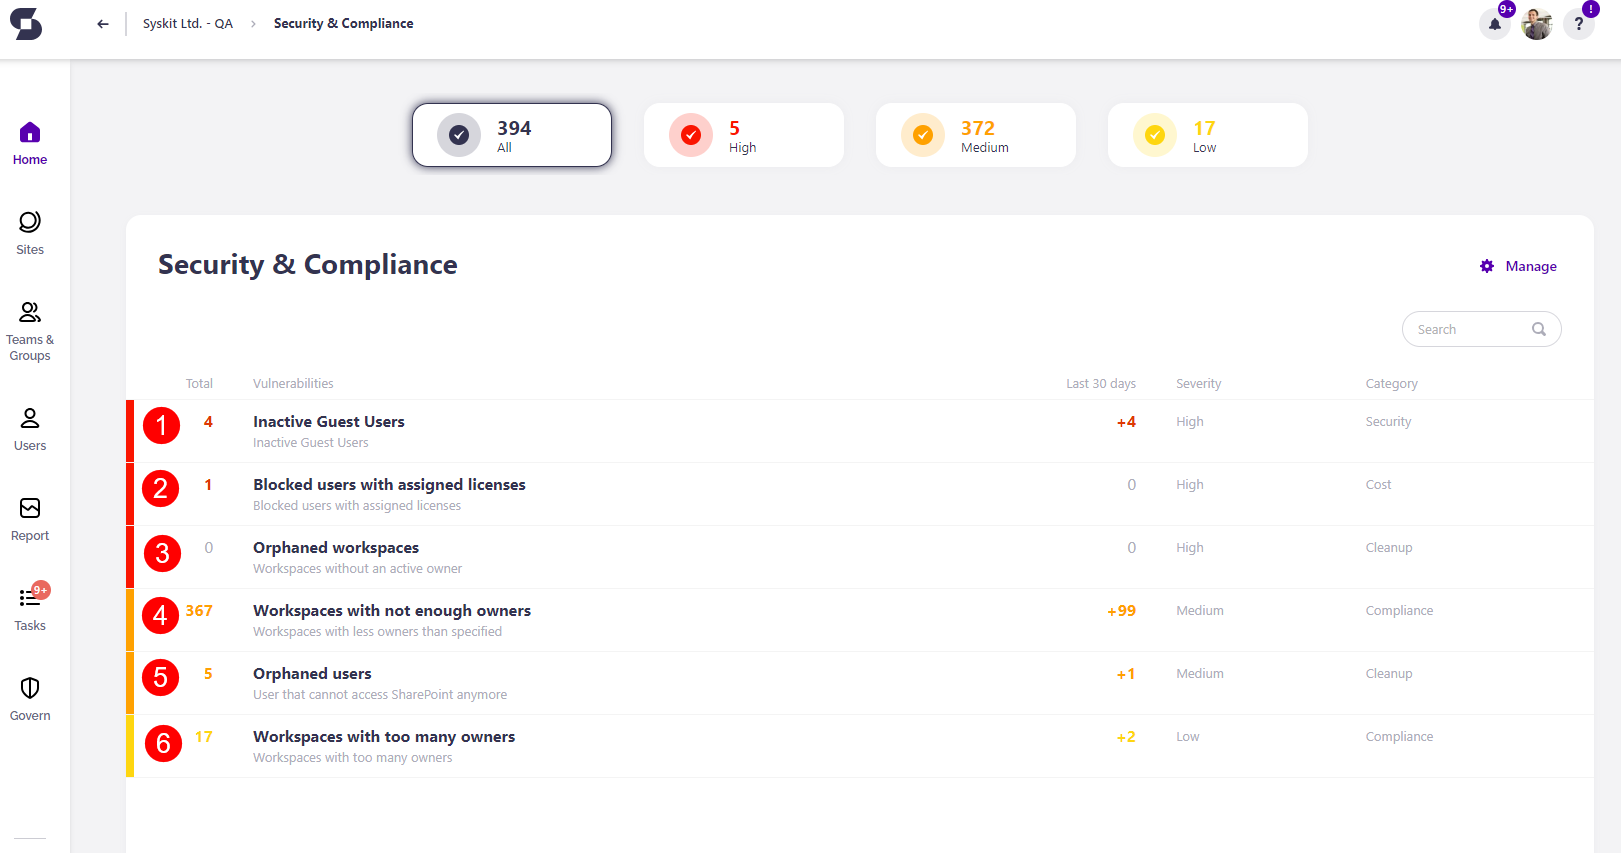
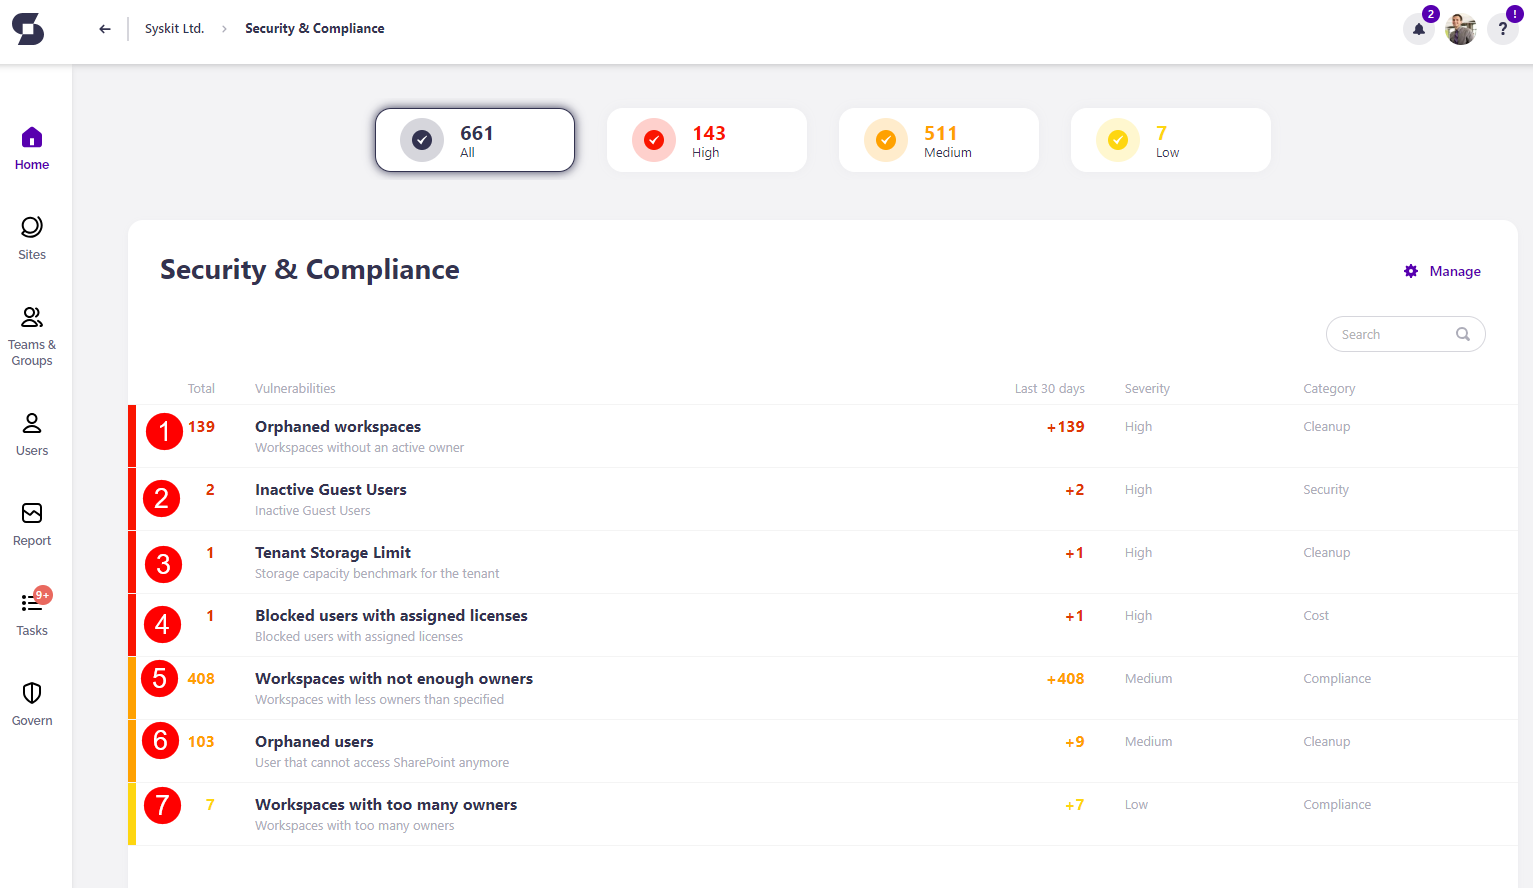
tenant storage articles

diff --git a/governance-and-automation/security-compliance-checks/security-compliance-checks.md b/governance-and-automation/security-compliance-checks/security-compliance-checks.md
@@ -38,17 +38,20 @@ You are also able to [set up Policy Automation](../../governance-and-automation/
 After clicking View All, the Security and Compliance checks dashboard will open, showing the following: 
 
 
-* **Inactive Guest Users (1)** - shows the number of guest users that have been inactive for a certain amount of time and helps you optimize your environment and keep it safe.
+* **Orphaned workspaces (1)** - shows the number of workspaces without an active owner. It helps you manage your Microsoft 365 workspace's health and helps **ensure there are no abandoned resources** and **workspaces without owners** in your tenant. 
 
-* **Blocked users with assigned licenses (2)** - shows the number of users with one or more active licenses assigned that have been blocked, which helps you **detect and remove licenses** that are not being utilized.
+* **Inactive Guest Users (2)** - shows the number of guest users that have been inactive for a certain amount of time and helps you optimize your environment and keep it safe.
 
-* **Orphaned workspaces (3)** - shows the number of workspaces without an active owner. It helps you manage your Microsoft 365 workspace's health and helps **ensure there are no abandoned resources** and **workspaces without owners** in your tenant. 
+* **Tenant Storage Limit (3)** - shows whether you reached the tenant storage limit based on the percentage set for the policy.
 
-* **Workspaces with not enough owners (4)** – shows the number of workspaces that don't have enough owners. You will be able to investigate further and assign additional owners if needed. Keep an eye on workspaces with only 1 owner because **if that one owner leaves, a workspace is left without an owner**. 
+* **Blocked users with assigned licenses (4)** - shows the number of users with one or more active licenses assigned that have been blocked, which helps you **detect and remove licenses** that are not being utilized.
 
-* **Orphaned users (5)** - shows the number of orphaned users and takes you to the Orphaned Users report, which helps **detect and remove blocked or deleted users** from your Microsoft 365 workspaces. 
+* **Workspaces with not enough owners (5)** – shows the number of workspaces that don't have enough owners. You will be able to investigate further and assign additional owners if needed. Keep an eye on workspaces with only 1 owner because **if that one owner leaves, a workspace is left without an owner**. 
 
-* **Workspaces with too many owners (6)** – shows the number of workspaces with too many owners. If there are **too many owners, no one feels accountable for access and content management**. This helps you keep track of and remove extra owners. 
+* **Orphaned users (6)** - shows the number of orphaned users and takes you to the Orphaned Users report, which helps **detect and remove blocked or deleted users** from your Microsoft 365 workspaces. 
+
+* **Workspaces with too many owners (7)** – shows the number of workspaces with too many owners. If there are **too many owners, no one feels accountable for access and content management**. This helps you keep track of and remove extra owners. 
+
 
 ![Security & Compliance Checks](../../.gitbook/assets/security-compliance-checks_dashboard.png)
 
@@ -68,6 +71,7 @@ Take a look at the following articles to learn how to settle your security and c
  * [**Workspaces with not enough owners**](../security-compliance-checks/workspaces-not-enough-owners.md)
  * [**Orphaned users**](../security-compliance-checks/orphaned-users.md)
  * [**Workspaces with too many owners**](../security-compliance-checks/inactive-guest-users.md)
+ * [**Tenant Storage Limit**](../security-compliance-checks/tenant-storage.md)
 
 {% hint style="warning" %}
 **Please note!**  

diff --git a/governance-and-automation/security-compliance-checks/tenant-storage.md b/governance-and-automation/security-compliance-checks/tenant-storage.md
@@ -1,0 +1,35 @@
+---
+description: This article provides information on the Tenant Storage Limit report.
+---
+
+
+# Tenant Storage Limit
+
+Syskit Point mitigates the risk of running out of storage based on the settings defined in the tenant-wide [policy](../automated-workflows/tenant-storage-admin.md). 
+
+The purpose of the Tenant Storage Limit check is to **notify you when your storage percentage gets close to the limit you set**. This information can help you determine whether you should change the storage limit set for the policy, remove any redundant content to free up space or purchase additional storage from Microsoft.
+
+The Tenant Storage policy is **a tenant-wide policy, and it cannot be automated**. That means that no tasks are created to resolve this policy violation, and no emails are sent to collaborators.
+
+The tenant storage limits **are still detected** and shown on the Security and Compliance dashboard. **This means that Syskit Point detects a vulnerability on a workspace** based on the applied policy, but it does not create tasks or send any emails. 
+
+The purpose of this is to assist Syskit Point admins by
+bringing awareness of potential issues in their Microsoft 365 environment. 
+
+On the Security & Compliance dashboard, click the **Tenant Storage Limit** button to see the report.
+
+The Tenant Storage Limit screen opens, **showing the Tenant Storage Limit violation**.
+
+The report provides information on:
+  * **Name (1)** of the policy
+  * **Detected (2)** - when the policy violation was detected
+  * **Status (3)** - the status of the policy violation
+
+![Tenant Storage Limit - Security & Compliance checks report](../../.gitbook/assets/security-compliance-checks_tenant-storage-limits.png)
+
+While there are no actions you can take directly on the Syskit Point report, there are a few ways to resolve this violation:
+  * **Increasing the storage limit percentage** that is set for the [Tenant Storage Limit policy](../automated-workflows/tenant-storage-admin.md)
+  * **Removing unnecessary or redundant content** from your sites and cleaning up your tenant to free up storage
+  * **Purchasing additional storage options** directly from Microsoft
+
+Completing any of the above actions resolves the Security & Compliance checks violation. 

diff --git a/governance-and-automation/automated-workflows/tenant-storage-admin.md b/governance-and-automation/automated-workflows/tenant-storage-admin.md
@@ -1,0 +1,24 @@
+---
+description: This article explains how to edit the Tenant Storage Limit policy. 
+---
+
+# Tenant Storage Limit
+
+Syskit Point provides a predefined **Tenant Storage Limit** that is applied tenant-wide and cannot be deleted. 
+
+The Tenant Storage policy monitors your storage usage within your tenant and proactively notifies you when you approach a critical limit. This helps mitigate the risk of running out of storage. 
+
+To edit the policy, navigate to the Policies settings screen and **click the Edit Policy (1)** icon.
+
+![Tenant Storage Policy - Edit Policy Button](../../.gitbook/assets/tenant-storage_edit-policy.png)
+
+The **Edit Policy** pop-up dialog opens where you can:
+* **Set the percentage limit (1)** for your storage consumption
+  * When you reach the limit, Syskit Point provides a notification informing you of that
+* **Select the Severity level (2)**
+  * The severity level set by default for this policy is High
+  * You can select between three levels of severity: **High, Medium, or Low**
+
+Once the policy is set to your preference, **click the Save button (3)** to finalize. 
+
+![Tenant Storage Limit - Editing the Policy](../../.gitbook/assets/tenant-storage_edit-policy-screen.png)

diff --git a/governance-and-automation/automated-workflows/set-up-policies.md b/governance-and-automation/automated-workflows/set-up-policies.md
@@ -42,11 +42,12 @@ The purpose of this is to assist Syskit Point admins by reminding them there are
 ### Automation
 
 Automation can be enabled in policy settings for each policy listed below.
-There are currently **4 policies that can be automated**: 
+There are currently **5 policies that can be automated**: 
 * [Inactive Guest Users (Tenant-Wide)](../../governance-and-automation/security-compliance-checks/inactive-guest-users.md)
 * [Maximum Number of Owners](../../governance-and-automation/security-compliance-checks/workspaces-too-many-owners.md)
 * [Minimum Number of Owners](../../governance-and-automation/security-compliance-checks/workspaces-not-enough-owners.md)
 * [Orphaned Workspaces](../../governance-and-automation/security-compliance-checks/orphaned-workspaces.md)
+* [**Tenant Storage Limit (Tenant-Wide)**](../../governance-and-automation/automated-workflows/tenant-storage-admin.md)
 
 **When automation is enabled, Syskit Point creates tasks and sends emails to users as defined in the policy settings**.
 

diff --git a/SUMMARY.md b/SUMMARY.md
@@ -115,6 +115,7 @@
     * [Maximum Number of Owners](governance-and-automation/automated-workflows/maximum-number-of-owners-admin.md)
     * [Orphaned Workspaces](governance-and-automation/automated-workflows/orphaned-resources-admin.md)
     * [Orphaned Users](governance-and-automation/automated-workflows/orphaned-users-admin.md)
+    * [Tenant Storage Limit](governance-and-automation/automated-workflows/tenant-storage-admin.md)
     * [Apply Policies](governance-and-automation/automated-workflows/manage-policies.md)
     * [Upgrade to Policy Automation](governance-and-automation/automated-workflows/upgrade-to-policy-automation.md)
   * [Security and Compliance Checks](governance-and-automation/security-compliance-checks/README.md)
